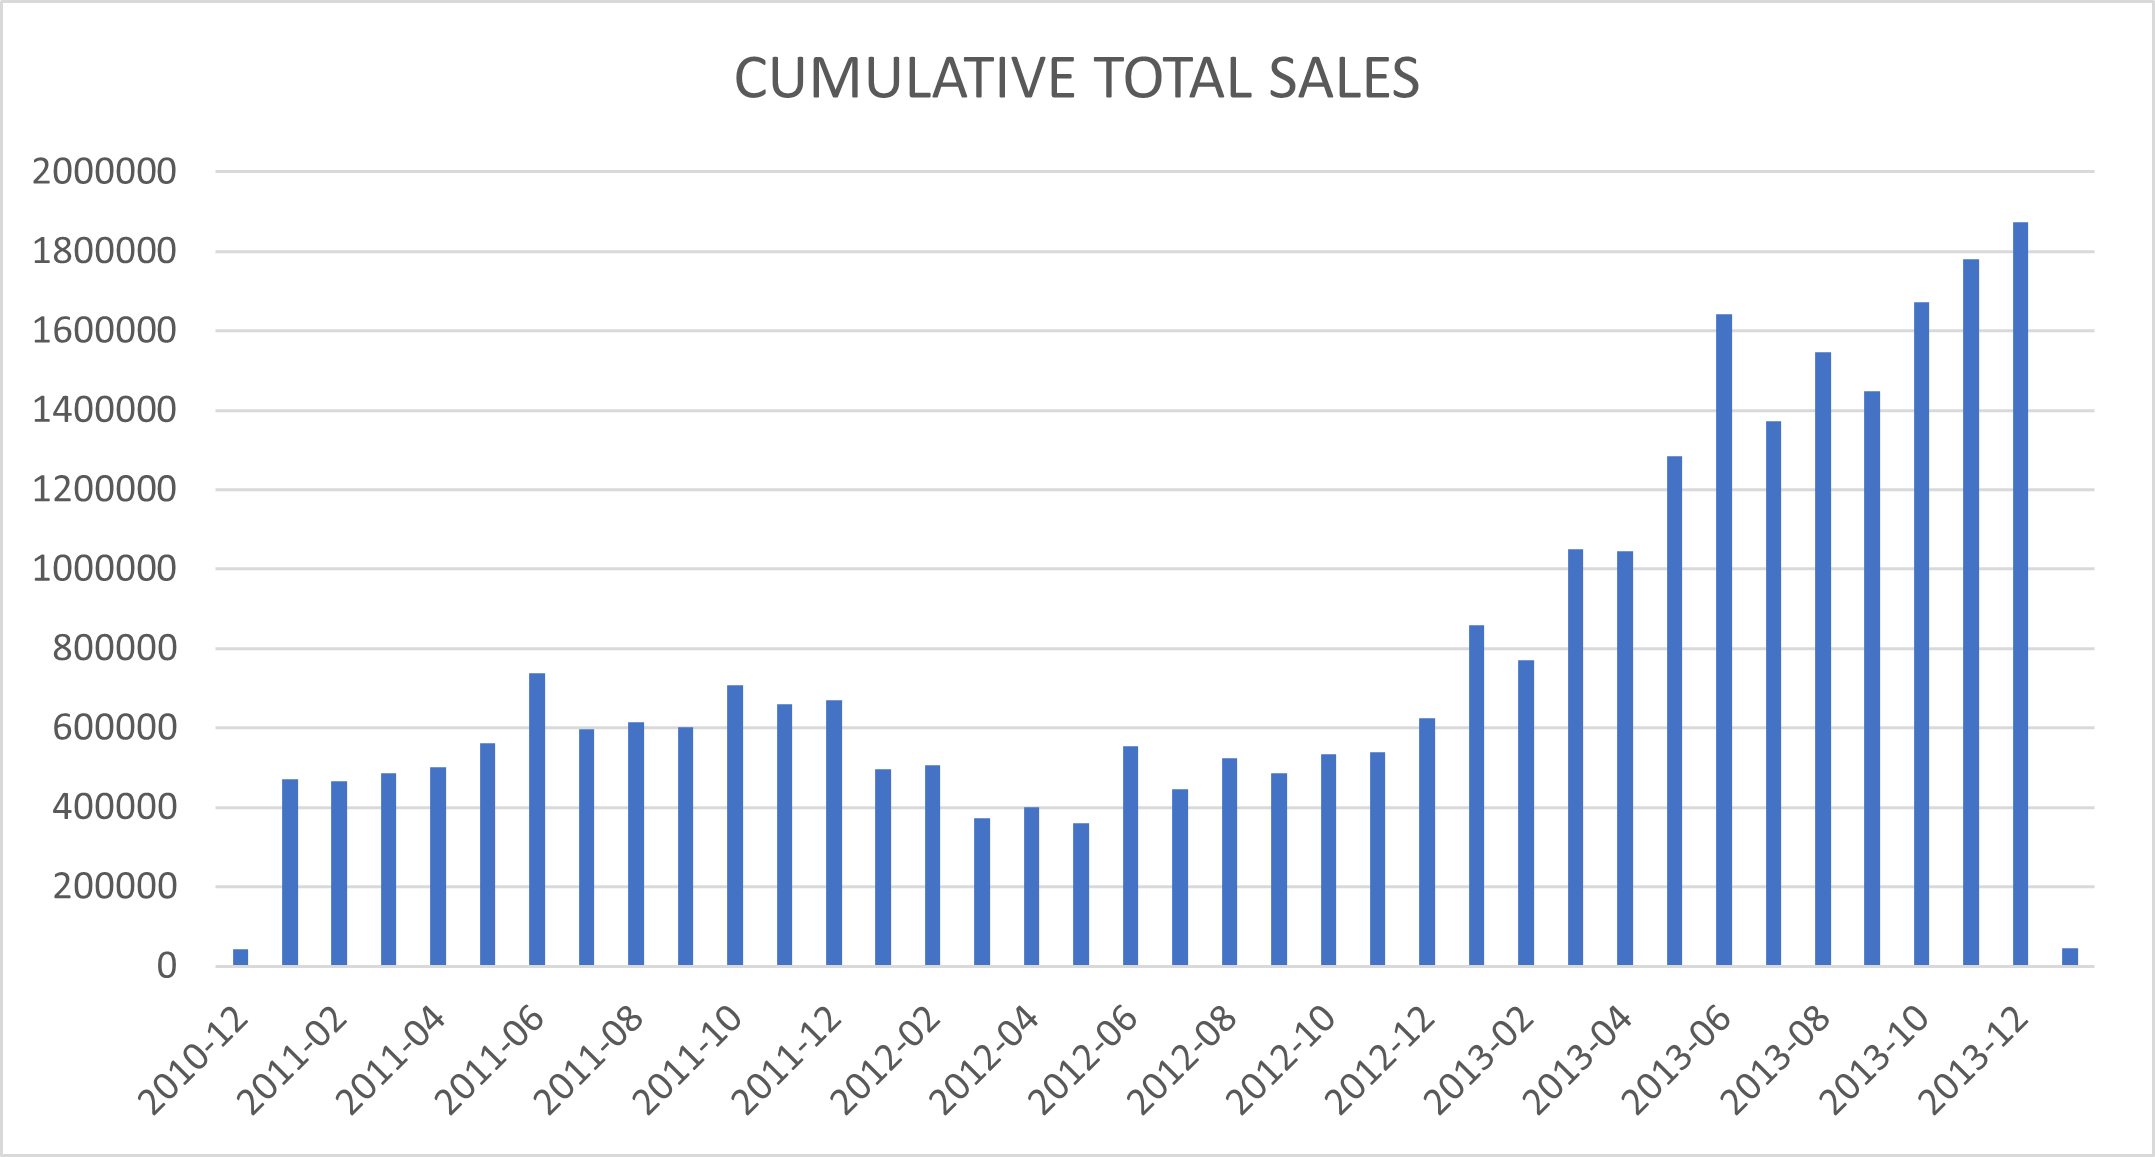
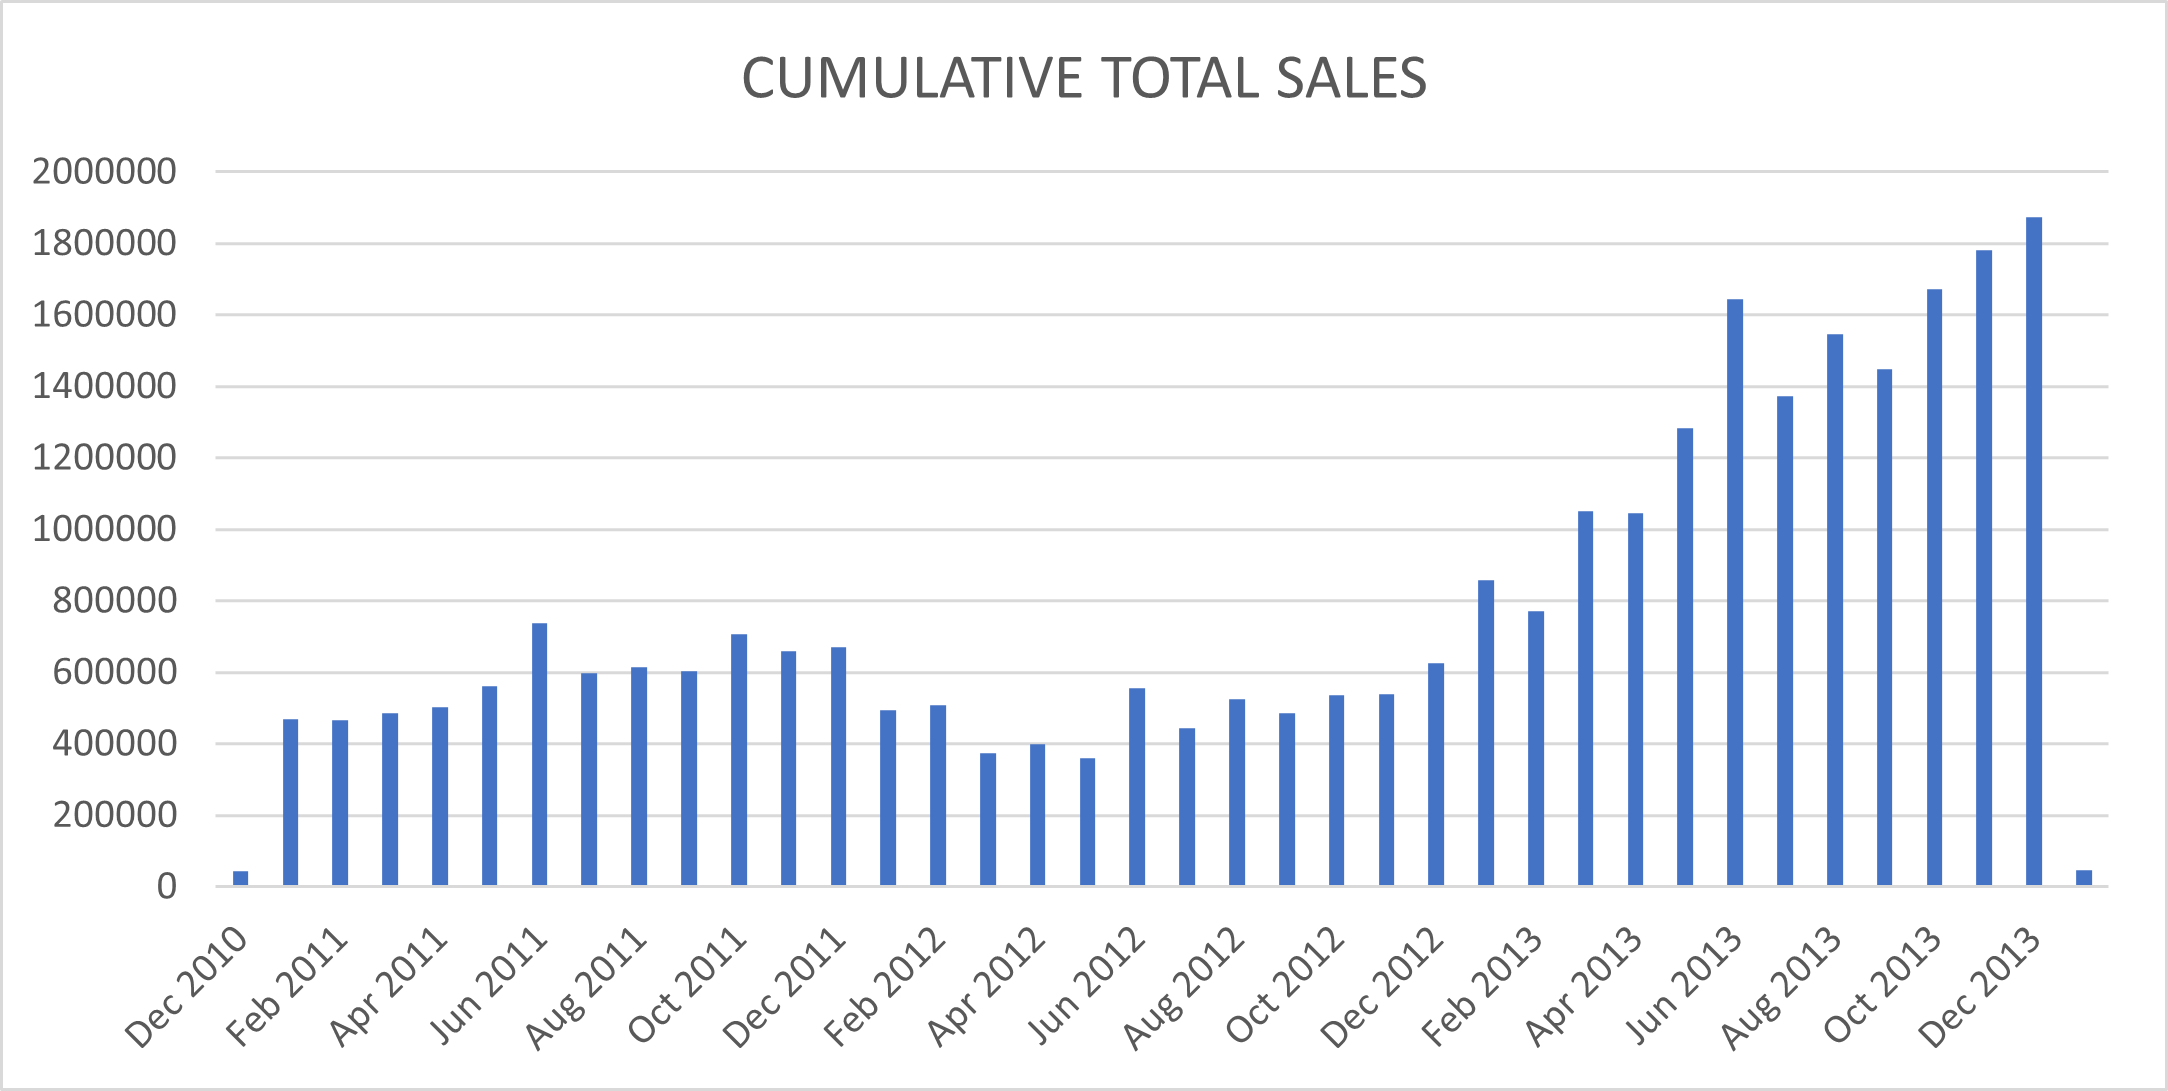
changes

diff --git a/README.md b/README.md
@@ -47,8 +47,108 @@ This project showcases the end-to-end SQL-based data analysis workflow on a simu
   - **Regular** – Medium spenders or stable users
   - **New** – Recent/low-value customers
 
-### 📊 Category Contribution
+### 📊 Part to Whole Analysis
 - Calculates each category’s percentage share in overall revenue
+---
+
+## 🗂 Database Schema (ER Diagram)
+
+The SQL project uses a star schema centered around the `fact_sales` table, connected to `dim_customers` and `dim_products` via foreign keys.
+
+This ER diagram illustrates the relationship between all core tables used in this project:
+
+![ER Diagram](images/er_diagram.png)
+
+---
+
+## 📊 Visual Insights
+
+### 📅 Time Trend Analysis
+
+#### 🗓 Monthly Sales
+Shows how total sales evolved month by month across the timeline.
+
+![Monthly Sales](images/monthly_total_sales.png)
+
+#### 📈 Monthly Quantity Sold
+Tracks the total quantity of products sold each month.
+
+![Monthly Quantity](images/monthly_total_quantity.png)
+
+#### 👥 Monthly Customers
+Number of distinct customers placing orders each month.
+
+![Monthly Customers](images/monthly_total_customers.png)
+
+---
+
+### 📆 Yearly Performance Summary
+
+#### 💵 Total Sales per Year
+Shows year-over-year growth or decline in overall revenue.
+
+![Yearly Sales](images/yearly_total_sales.png)
+
+#### 📦 Yearly Quantity
+Tracks units sold per year to identify volume trends.
+
+![Yearly Quantity](images/yearly_total_quantity.png)
+
+#### 🧍♂ Yearly Customers
+Monitors how customer acquisition or retention changed over time.
+
+![Yearly Customers](images/yearly_total_customers.png)
+
+---
+
+### 🔁 Cumulative Insights & Moving Averages
+
+#### 📊 Running Total Sales
+Running sales helps visualize accumulation over time.
+
+![Running Sales](images/cumulative_running_sales.png)
+
+#### 📈 Cumulative Sales with Moving Average Price
+Analyzes price trends with smoothing applied using a moving average.
+
+![Moving Avg Price](images/cumulative_moving_average_price.png)
+
+#### 📈 Cumulative Total Sales
+Overall growth in revenue with respect to time.
+
+![Cumulative Total](images/cumulative_total_sales.png)
+
+---
+
+### 🎯 Performance Evaluation
+
+Products categorized by whether they performed **Above** or **Below Average**, and **Increased** or **Decreased** compared to the previous year.
+
+![Performance Analysis](images/performance_analysis.png)
+
+---
+
+### 🧩 Product Segmentation
+
+Grouping products by pricing tiers to identify premium vs budget segment distribution.
+
+![Product Segmentation](images/products_data_segmentation.png)
+
+---
+
+### 🧠 Customer Segmentation
+
+Classifying customers as **VIP**, **Regular**, or **New** based on behavior and spending.
+
+![Customer Segmentation](images/customers_data_segmentation.png)
+
+---
+
+### 🍰 Part-to-Whole Analysis
+
+Visualizing the **category-wise contribution** to total sales using a pie chart or bar chart.
+
+![Category Contribution](images/part_to_whole_analysis.png)
 
 ---
 
